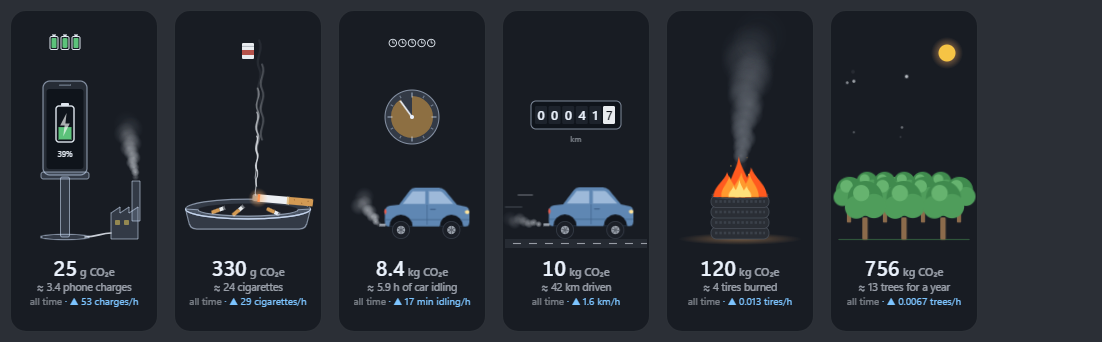
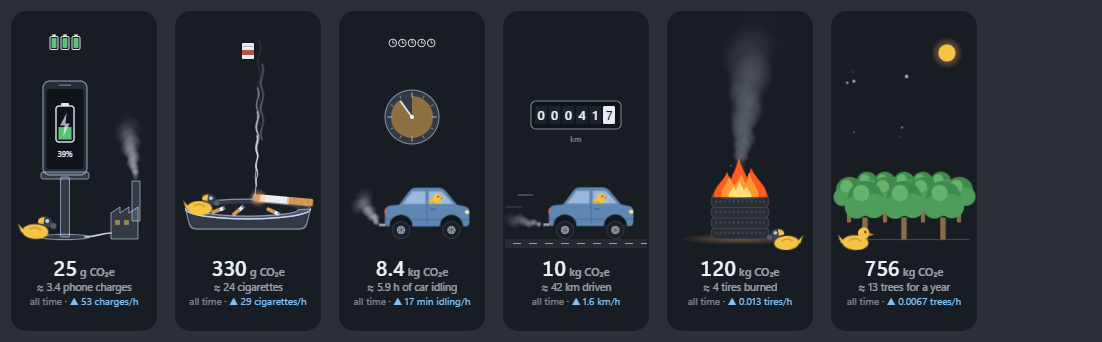
The rubber duck joins the CO₂ scenes
It sits by the phone's power plant, on the ashtray rim and beside the tire
fire in a gas mask, and drives the car and wanders the trees without one.
It bobs, and hops whenever a response sends up a puff.

diff --git a/scenes.js b/scenes.js
@@ -101,6 +101,29 @@ function badge(g, text, x, y, anchor = 'start') {
 }
 
 // ── Shared pieces ───────────────────────────────────────────────────────────
+// The rubber duck comes along: the bath duck, facing right. Near the smoke it
+// wears a gas mask (lens, face piece, filter canister and straps); in the car
+// and in the trees it doesn't need one.
+const DUCK_BODY = `
+    <path d="M-5.6 -1.8 L-8.4 -4.6 L-6.6 -0.4 Z" fill="#f6c445"/>
+    <ellipse cx="0" cy="-1.3" rx="6.2" ry="3.5" fill="#f6c445"/>
+    <path d="M-2.8 -2.3 Q0 -4.2 2.4 -2.2" fill="none" stroke="#d29a22" stroke-width="0.7" stroke-linecap="round"/>
+    <circle cx="3.7" cy="-6" r="2.7" fill="#f6c445"/>`;
+const DUCK_FACE = `
+    <path d="M6 -6.4 L8.7 -5.6 L6 -4.7 Z" fill="#f08a24"/>
+    <circle cx="4.5" cy="-6.6" r="0.5" fill="#1b1f27"/>`;
+const DUCK_MASK = `
+    <path d="M1.1 -7.6 Q3.4 -9.5 5.6 -8.1 M1.1 -5.2 L4.2 -4.4" fill="none" stroke="#2b2f36" stroke-width="0.7" stroke-linecap="round"/>
+    <path d="M4.1 -8.3 Q7.5 -8.7 7.7 -5.7 Q7.7 -3.4 5.3 -3.5 Q3.6 -3.7 3.7 -5.8 Z" fill="#3d434c"/>
+    <circle cx="5.4" cy="-6.6" r="1.15" fill="#bfe3ff" fill-opacity="0.9" stroke="#1b1f27" stroke-width="0.35"/>
+    <circle cx="8.4" cy="-4.4" r="1.5" fill="#6b717a" stroke="#2b2f36" stroke-width="0.4"/>
+    <path d="M7.7 -4.9 H9.1 M7.6 -3.9 H9.2" stroke="#2b2f36" stroke-width="0.3"/>`;
+// Its base sits at x y; k is the size (1 = the bath duck), flip faces it left.
+function duck(x, y, k, { flip = false, bob = true, mask = true } = {}) {
+  const art = `<g transform="translate(0 -2.2)">${DUCK_BODY}${mask ? DUCK_MASK : DUCK_FACE}</g>`;
+  return `<g transform="translate(${x} ${y}) scale(${flip ? -k : k} ${k})"><g class="sc-hop"><g class="${bob ? 'sc-duck' : ''}">${art}</g></g></g>`;
+}
+
 // A small car, facing right, drawn with its rear wheel's ground point at 0 0.
 function car(cls) {
   const wheel = (cx) => `<g transform="translate(${cx} -10)">
@@ -113,6 +136,7 @@ function car(cls) {
       <path d="M6 -14 Q2 -14 2 -19 V-30 Q2 -36 8 -37 L18 -38 L30 -54 Q32 -57 36 -57 H62 Q66 -57 69 -54 L82 -38 L92 -36 Q96 -35 96 -29 V-19 Q96 -14 92 -14 Z" fill="#5f87b3"/>
       <path d="M33 -53 H47 V-39 H22 Z" fill="#cfe2f7" fill-opacity="0.55"/>
       <path d="M51 -53 H63 Q65 -53 67 -51 L78 -39 H51 Z" fill="#cfe2f7" fill-opacity="0.55"/>
+      <g clip-path="url(#carWin)">${duck(53.7, -32, 1.7, { bob: false, mask: false })}<path d="M71 -50 L64 -40" stroke="#fff" stroke-width="1.6" stroke-linecap="round" opacity="0.25"/></g>
       <path d="M49 -38 V-16 M2 -21.5 H96" stroke="#3f6189" stroke-width="0.8" fill="none"/>
       <path d="M53 -33 H58" stroke="#3f6189" stroke-width="1.3" stroke-linecap="round"/>
       <ellipse cx="93.6" cy="-30" rx="2.4" ry="2" fill="#ffe39a"/>
@@ -164,6 +188,7 @@ const SCENES = {
       <path d="M96 216 C86 216 82 220 70 220" fill="none" stroke="#c9ced6" stroke-width="1.6" stroke-linecap="round"/>
       <ellipse class="solid" cx="50" cy="220" rx="24" ry="2.6"/>
       <rect class="solid" x="45.5" y="160" width="9" height="60" rx="2"/>
+      ${duck(20, 222, 2.1)}
       <rect x="28" y="64" width="44" height="94" rx="7" fill="#262c35" stroke="var(--glass)" stroke-width="1.2"/>
       <rect x="31.5" y="72" width="37" height="80" rx="3" fill="#0f141b"/>
       <rect x="44" y="67.4" width="12" height="1.6" rx="0.8" fill="var(--glass)" opacity="0.6"/>
@@ -209,6 +234,7 @@ const SCENES = {
       <g class="sc-butts"></g>
       <path class="solid" d="M19 198 A50 8 0 0 0 119 198 L116 210 Q115 214 110 214 H28 Q23 214 22 210 Z"/>
       <path class="solid" d="M19 198 A50 8 0 0 0 119 198 L109 198.6 A40 5 0 0 1 29 198.6 Z"/>
+      ${duck(30, 203, 1.6)}
       <g transform="translate(121 193) rotate(5)">
         <rect class="sc-paper" x="-80" y="-3" width="60.5" height="6" fill="#eceff3"/>
         <rect x="-20" y="-3" width="20" height="6" rx="1.2" fill="#d39a54"/>
@@ -344,6 +370,7 @@ const SCENES = {
     svg: `
       <g class="sc-live"><ellipse cx="69" cy="222" rx="62" ry="6" fill="url(#scGlow)" opacity="0.45"/></g>
       <g class="sc-stacks"></g>
+      ${duck(116, 233, 2, { flip: true })}
       <g class="sc-more"></g>`,
     init(a, r) {
       r.stacks = a.querySelector('.sc-stacks');
@@ -380,6 +407,7 @@ const SCENES = {
       <g class="sc-live">${Array.from({ length: 7 }, (_, i) => `<g transform="translate(${14 + ((i * 53) % 104)} ${18 + ((i * 29) % 40)})">${loops(1, 6, '<circle r="1.8" fill="#d5d9df"/>', `--dx:${(i % 3) * 4 - 4}px;--dy:110px;--grow:.5;--op:.9;--s0:1;animation-delay:${(-i * 0.86).toFixed(2)}s`)}</g>`).join('')}</g>
       <path d="M4 222.5 H134" stroke="#4c9a57" stroke-opacity="0.45" stroke-width="1.2" stroke-linecap="round"/>
       <g class="sc-forest"></g>
+      ${duck(20, 233, 2.1, { mask: false })}
       <g class="sc-more"></g>`,
     init(a, r) {
       r.forest = a.querySelector('.sc-forest');
@@ -492,6 +520,9 @@ function sceneEvent(e) {
   if (!def || $('sceneArt').classList.contains('sc-off')) return;
   def.event(e, e.sub ? 0.65 : 1, sceneState.r);
   sound(e.sub);
+  // The duck hops at each puff.
+  const hop = $('sceneArt').querySelector('.sc-hop');
+  if (hop && !REDUCED_MOTION) hop.animate([{ transform: 'translateY(0)' }, { transform: 'translateY(-2.4px)', offset: 0.35 }, { transform: 'translateY(0)' }], { duration: 420, easing: 'ease-out' });
 }
 
 // Moving up a step: the old scene shrinks away and the new one grows in.

diff --git a/index.html b/index.html
@@ -201,6 +201,8 @@
   @keyframes scRoad { to { stroke-dashoffset: 16; } }
   .sc-speed path { stroke: rgba(234, 241, 251, .45); stroke-width: 1; stroke-linecap: round; animation: scSpeed .6s linear infinite; }
   @keyframes scSpeed { from { transform: translateX(6px); opacity: 0; } 30% { opacity: 1; } to { transform: translateX(-14px); opacity: 0; } }
+  .sc-duck { transform-box: fill-box; transform-origin: 50% 100%; animation: scDuck 2.8s ease-in-out infinite alternate; }
+  @keyframes scDuck { from { transform: rotate(-3deg); } to { transform: rotate(3deg); } }
   .sc-crown { transform-box: fill-box; transform-origin: 50% 100%; animation: scSway 5.5s ease-in-out infinite alternate; }
   @keyframes scSway { from { transform: rotate(-2deg); } to { transform: rotate(2deg); } }
   .sc-off .sc-spokes, .sc-off .sc-body, .sc-off .sc-road, .sc-off .sc-roll { animation: none; }
@@ -244,6 +246,8 @@
   <svg viewBox="0 0 138 236" aria-hidden="true">
     <defs>
       <clipPath id="vclip"><path id="vclipPath"/></clipPath>
+      <!-- The car's front window (car coordinates), so the duck can sit behind the wheel -->
+      <clipPath id="carWin"><path d="M51 -53 H63 Q65 -53 67 -51 L78 -39 H51 Z"/></clipPath>
       <linearGradient id="glassGrad" x1="0" y1="0" x2="1" y2="0">
         <stop offset="0" stop-color="#fff" stop-opacity="0.10"/>
         <stop offset="0.5" stop-color="#fff" stop-opacity="0.02"/>

diff --git a/README.md b/README.md
@@ -8,7 +8,7 @@ burning down, a car idling, a tire fire.
 <p>
   <img src="docs/today.png" alt="Graduated cylinder at 6.6 L under a dripping burette, filled in coloured layers by project (demo data)" width="150">
   <img src="docs/all-time.png" alt="Bathtub at 417 L with a rubber duck, and a shelf of seven daily jars below (demo data)" width="150">
-  <img src="docs/co2.png" alt="A stack of tires on fire with black smoke: 55 kg CO₂e, about 1.8 tires burned, 0.011 tires an hour (demo data)" width="150">
+  <img src="docs/co2.png" alt="A stack of tires on fire with black smoke, and the rubber duck watching in a gas mask: 55 kg CO₂e, about 1.8 tires burned, 0.011 tires an hour (demo data)" width="150">
   <img src="docs/legend.png" alt="Hover legend with range, energy, tokens, projects and drop colours (demo data)" width="150">
 </p>
 
@@ -102,7 +102,7 @@ Developed on Windows. macOS and Linux should work but haven't been tested.
   readable number, and moves up a step as the amount grows; *Count CO₂ in* can
   pin one.
 
-  <img src="docs/co2-scenes.png" alt="The six CO₂ scenes: a phone charging from a small power plant, a cigarette burning in a glass ashtray, a car idling under a clock, a car driving with an odometer, a stack of tires on fire, and a forest in the sun (test data)" width="600">
+  <img src="docs/co2-scenes.png" alt="The six CO₂ scenes, each with the rubber duck: a phone charging from a small power plant, a cigarette burning in a glass ashtray, a car idling under a clock, a car driving with an odometer, a stack of tires on fire, and a forest in the sun (test data)" width="600">
 
   | Amount | Counted in | Picture |
   |---|---|---|
@@ -112,8 +112,10 @@ Developed on Windows. macOS and Linux should work but haven't been tested.
   | under 600 kg | tires burned | Tires stacked on a fire, under a column of black smoke. More tires, more stacks. |
   | more | trees for a year | A forest soaking up CO₂ in the sun, with a sapling growing towards the next tree. |
 
-  Km driven is available too: a car on the road and an odometer. Each response
-  sends up a puff, tinted by model. When the widget is idle for a few hours the
+  Km driven is available too: a car on the road and an odometer. The rubber
+  duck comes along: in a gas mask by the phone's power plant, the ashtray and
+  the tire fire, and bare-faced behind the wheel and in the trees. Each
+  response sends up a puff, tinted by model, and the duck hops. When the widget is idle for a few hours the
   fire goes out and the car switches off (z z z); the next response lights it
   again. Drag the widget and the flames and smoke trail behind.
 - **⚠ Context hint.** Every reply re-reads the whole conversation, so a long
